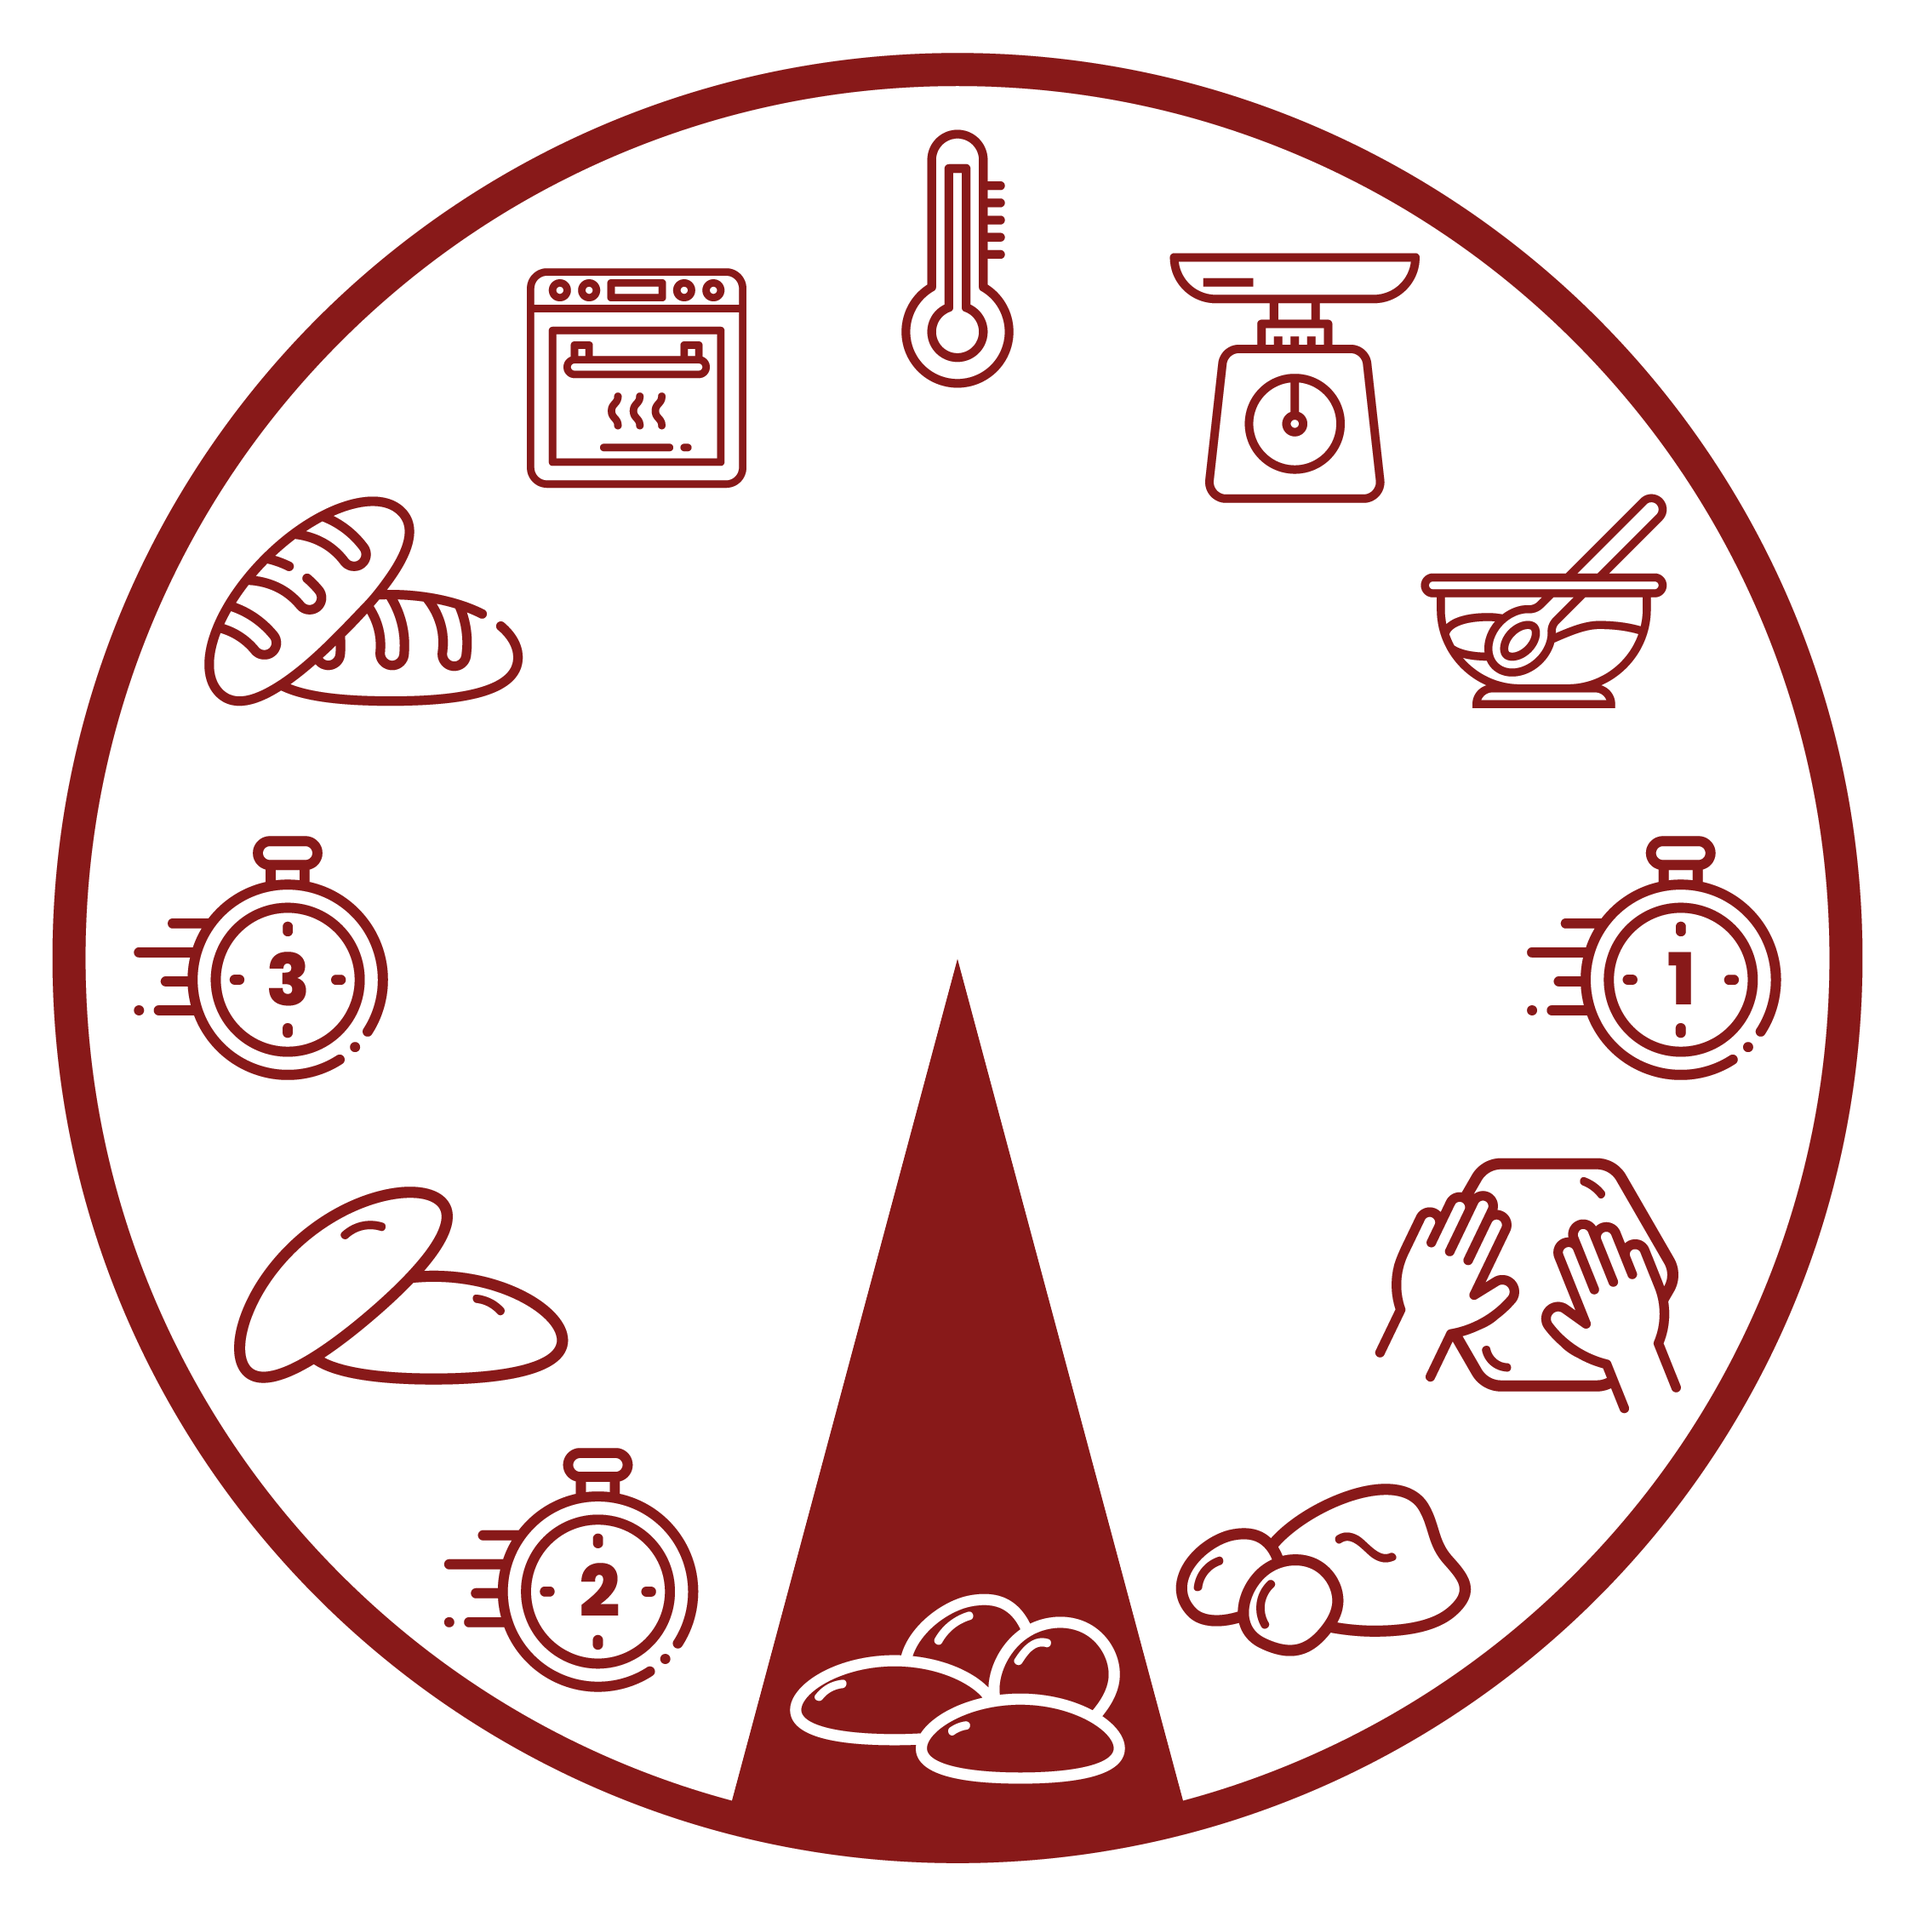
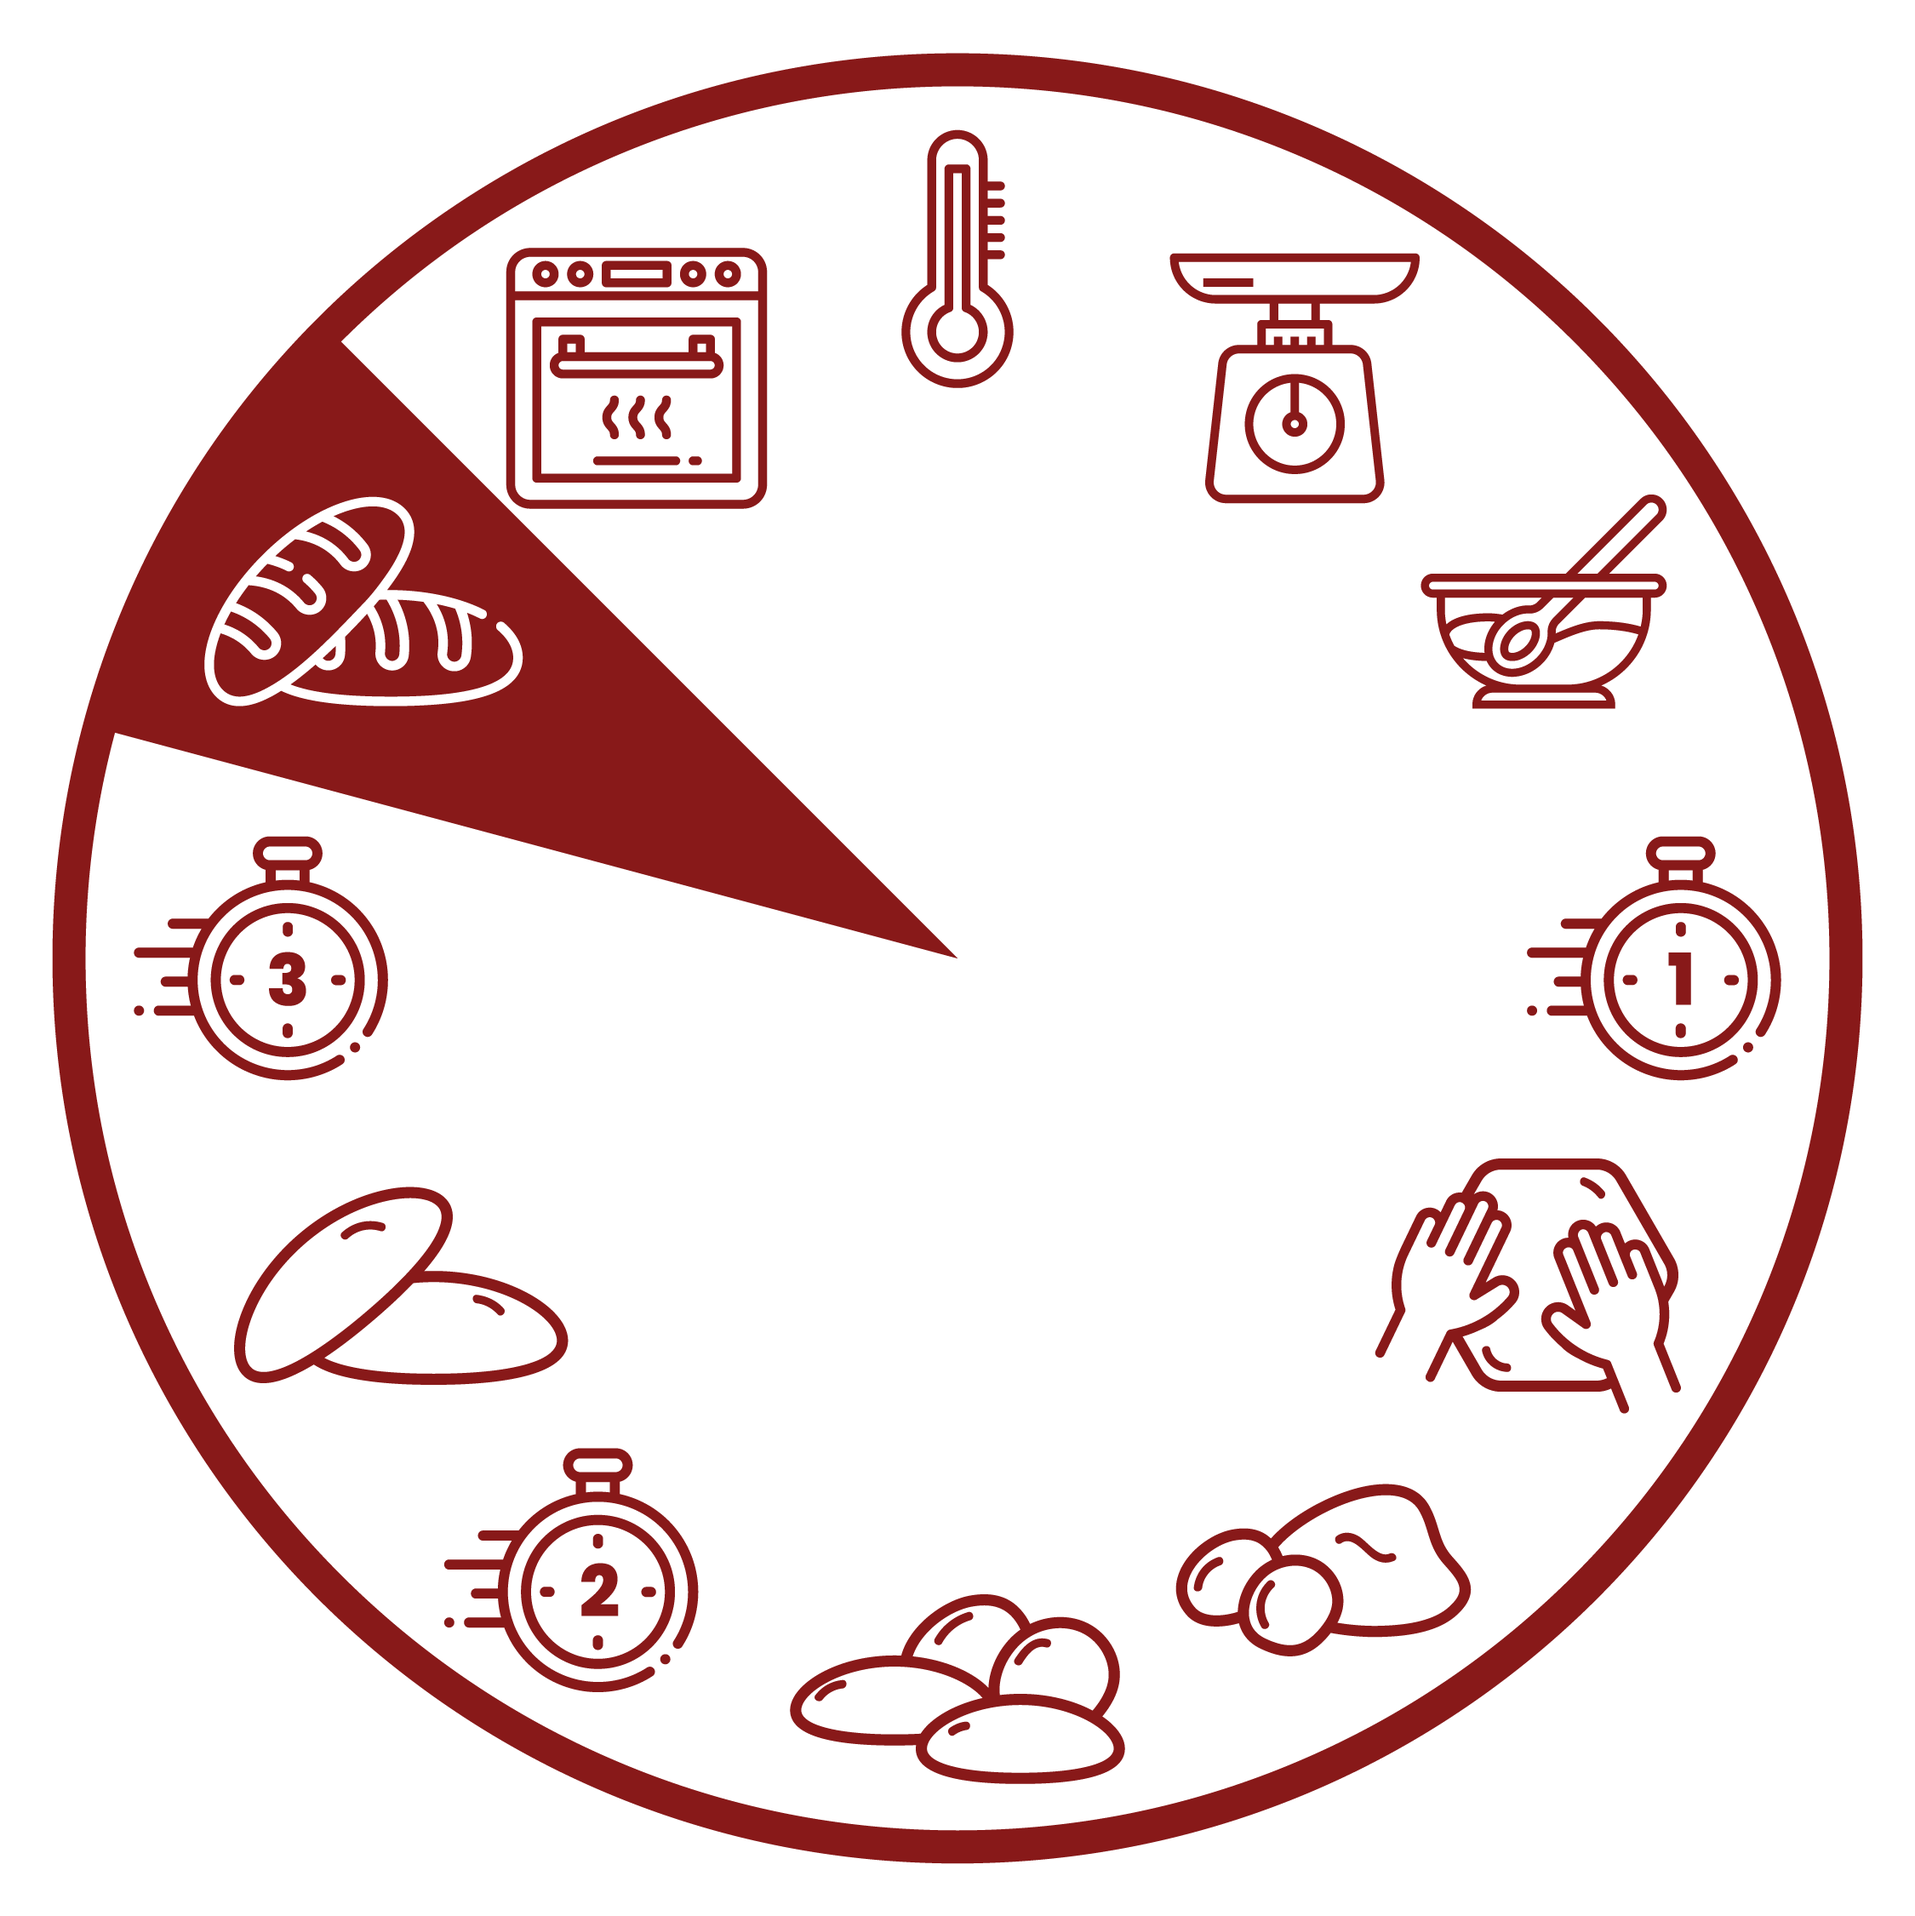
slider done

Changed region(s): [[0.0622, 0.1244, 0.4978, 0.4976], [0.3733, 0.4976, 0.6222, 0.964]]

diff --git a/src/app/home/components/formulas/components/formula-detail/components/roulette-steps/roulette-steps.component.ts b/src/app/home/components/formulas/components/formula-detail/components/roulette-steps/roulette-steps.component.ts
@@ -1,0 +1,54 @@
+import {Component, OnInit} from "@angular/core";
+
+@Component({
+  selector: "app-roulette-steps",
+  templateUrl: "./roulette-steps.component.html",
+  styleUrls: ["./roulette-steps.component.sass"],
+})
+export class RouletteStepsComponent implements OnInit {
+  autoTicks = false;
+  max = 12;
+  min = 1;
+  showTicks = true;
+  step = 1;
+  thumbLabel = true;
+  value = 0;
+  tickInterval = 1;
+  images = [];
+
+  getSliderTickInterval(): number | "auto" {
+    if (this.showTicks) {
+      return this.autoTicks ? "auto" : this.tickInterval;
+    }
+    return 0;
+  }
+  constructor() {}
+
+  ngOnInit() {
+    this.rouletteImage();
+  }
+  handleInputSlider(event: Event) {
+    this.loadImage(event);
+  }
+  rouletteImage() {
+    // const canvas = document.getElementById("canvas");
+    // const ctx = canvas.getContext("2d");
+    for (let i = 1; i <= 12; i++) {
+      const number = i.toString().padStart(2, "00");
+      const roulette = `assets/images/Pasos/Pasos_PNG/Pasos_hazpanencasa-${number}.png`;
+      const image = new Image();
+      image.src = roulette;
+      image.addEventListener("load", () => {
+        this.images[i] = image;
+        if (i === 1) {
+          this.loadImage(i);
+        }
+      });
+    }
+  }
+  loadImage(index) {
+    const canvas = document.getElementById("canvas");
+    const ctx = canvas.getContext("2d");
+    ctx.drawImage(this.images[index], 0, 0, canvas.width, canvas.height);
+  }
+}

diff --git a/src/app/material/material.module.ts b/src/app/material/material.module.ts
@@ -12,10 +12,12 @@ import {MatFormFieldModule} from "@angular/material/form-field";
 import {MatSelectModule} from "@angular/material/select";
 import {MatRadioModule} from "@angular/material/radio";
 import {MatCardModule} from "@angular/material/card";
+import {MatSliderModule} from "@angular/material/slider";
 
 import {MatTableModule} from "@angular/material/table";
 import {MatPaginatorModule} from "@angular/material/paginator";
 import {MatSortModule} from "@angular/material/sort";
+import {MatCheckboxModule} from "@angular/material/checkbox";
 
 import {MatSidenavModule} from "@angular/material/sidenav";
 import {MatListModule} from "@angular/material/list";
@@ -28,6 +30,7 @@ import {MatExpansionModule} from "@angular/material/expansion";
 @NgModule({
   declarations: [],
   imports: [
+    MatSliderModule,
     CommonModule,
     MatDividerModule,
     MatSidenavModule,
@@ -51,6 +54,7 @@ import {MatExpansionModule} from "@angular/material/expansion";
     MatDialogModule,
     MatProgressBarModule,
     MatExpansionModule,
+    MatCheckboxModule,
   ],
   exports: [
     MatButtonModule,
@@ -75,6 +79,8 @@ import {MatExpansionModule} from "@angular/material/expansion";
     MatStepperModule,
     MatProgressBarModule,
     MatExpansionModule,
+    MatSliderModule,
+    MatCheckboxModule,
   ],
 })
 export class MaterialModule {}

diff --git a/src/app/home/components/formulas/formulas.module.ts b/src/app/home/components/formulas/formulas.module.ts
@@ -14,6 +14,7 @@ import {SharedModule} from "@shared/shared.module";
 import {Table3Component} from "./components/formula-detail/components/table3-ingredient_complex/table3.component";
 import { FormulaStepperComponent } from './components/formula-detail/components/formula-stepper/formula-stepper.component';
 import { FormulaTableTimeComponent } from './components/formula-detail/components/formula-table-time/formula-table-time.component';
+import { RouletteStepsComponent } from './components/formula-detail/components/roulette-steps/roulette-steps.component';
 
 @NgModule({
   declarations: [
@@ -25,6 +26,7 @@ import { FormulaTableTimeComponent } from './components/formula-detail/component
     Table3Component,
     FormulaStepperComponent,
     FormulaTableTimeComponent,
+    RouletteStepsComponent,
   ],
   imports: [CommonModule, FormulasRoutingModule, FormsModule, SharedModule],
   providers: [FormulasService],

diff --git a/src/app/home/components/formulas/components/formula-detail/components/roulette-steps/roulette-steps.component.html b/src/app/home/components/formulas/components/formula-detail/components/roulette-steps/roulette-steps.component.html
@@ -1,0 +1,21 @@
+<mat-card class="example-result-card">
+  <canvas
+    class="d-block mx-auto"
+    width="500px"
+    height="500px"
+    id="canvas"
+  ></canvas>
+  <mat-card-content class="d-flex">
+    <mat-slider
+      class="mx-auto my-0"
+      [max]="max"
+      [min]="min"
+      [step]="step"
+      [thumbLabel]="thumbLabel"
+      [tickInterval]="getSliderTickInterval()"
+      [(ngModel)]="value"
+      (input)="handleInputSlider($event.value)"
+    >
+    </mat-slider>
+  </mat-card-content>
+</mat-card>

diff --git a/src/app/home/components/formulas/components/formula-detail/formula.component.html b/src/app/home/components/formulas/components/formula-detail/formula.component.html
@@ -82,10 +82,12 @@
   <section>
     <div class="container">
       <div class="row">
-        <div class="col-lg-4">
+        <div class="col-lg-5">
           <app-formula-table-time [formula]="formula"></app-formula-table-time>
         </div>
-        <div class="col-lg-6"></div>
+        <div class="col-lg-7">
+          <app-roulette-steps></app-roulette-steps>
+        </div>
       </div>
     </div>
   </section>

diff --git a/src/app/home/components/formulas/components/formula-detail/components/roulette-steps/roulette-steps.component.sass b/src/app/home/components/formulas/components/formula-detail/components/roulette-steps/roulette-steps.component.sass
@@ -1,0 +1,9 @@
+
+.mat-slider-horizontal 
+  width: 500px
+.img-container
+  width: 200px
+  height: 300px
+
+
+
